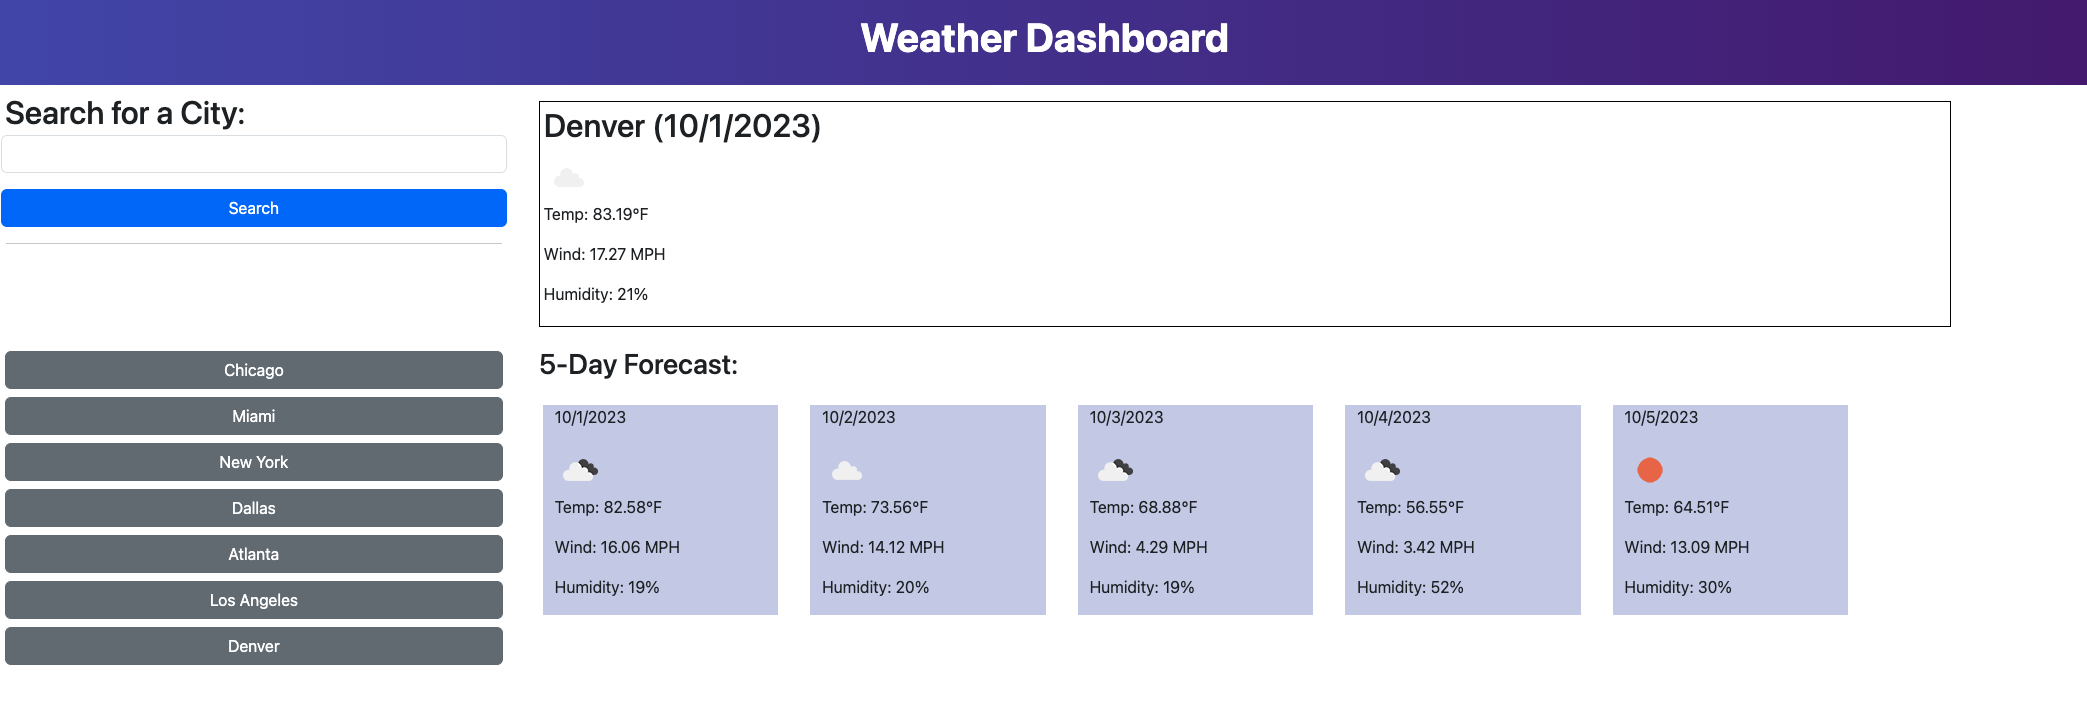
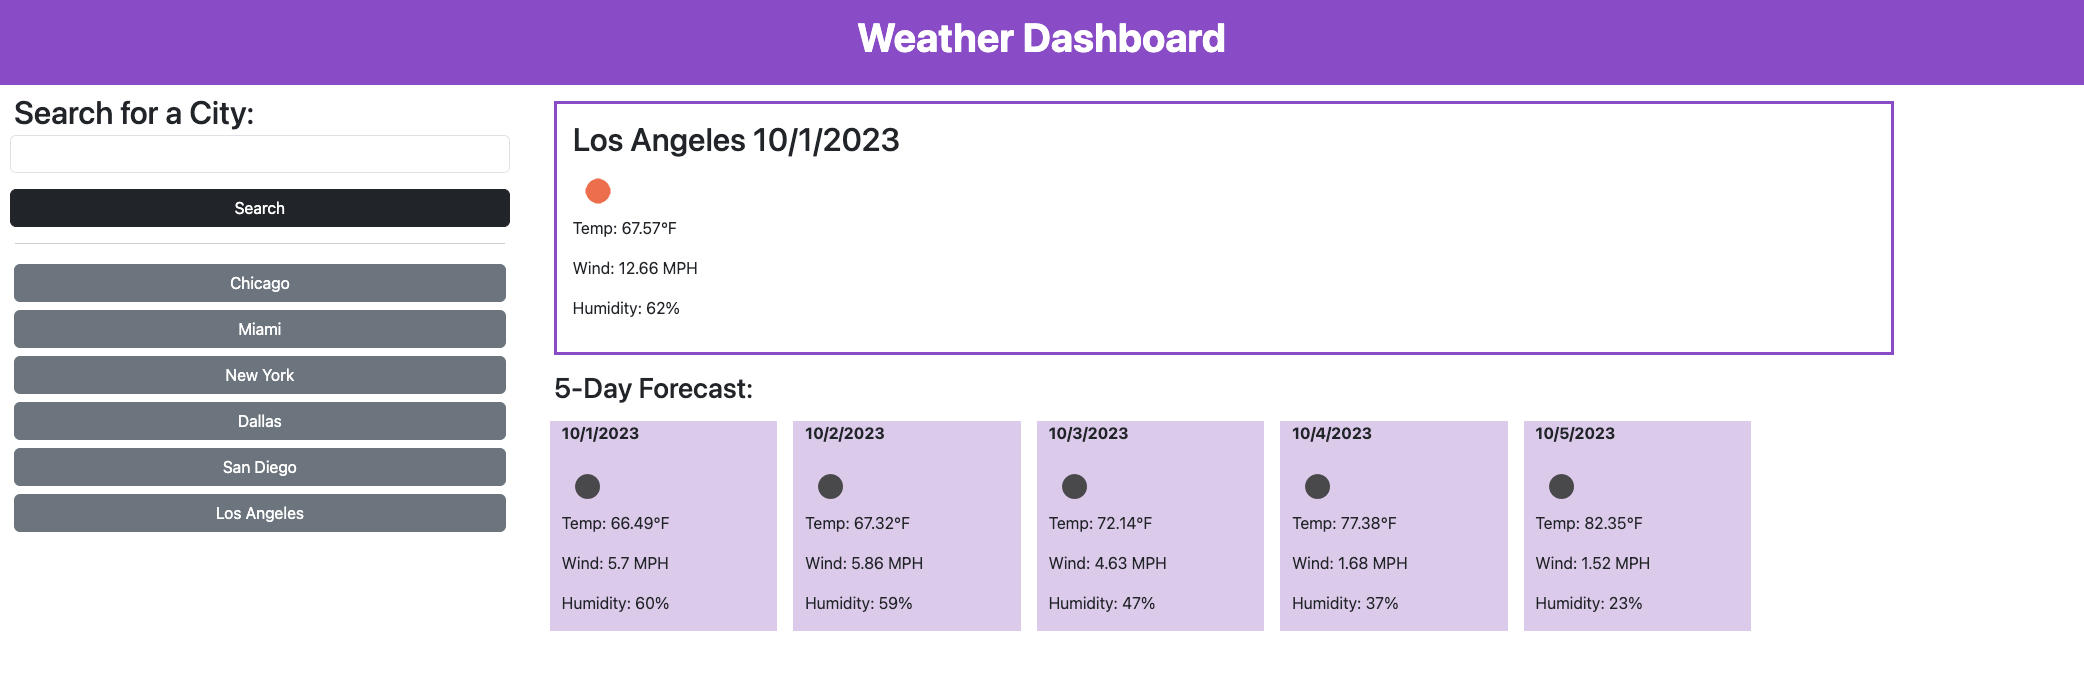
changed design

diff --git a/dashboard.html b/dashboard.html
@@ -15,35 +15,38 @@
         <h1 class="fw-bold">Weather Dashboard</h1>
     </header>
 
-    <section class="row">
-        <form class="col-3 m-1" id="search-form">
-            <h2 class="m-1">Search for a City:</h2>
-            <div class="mb-3">
-                <input type="text" class="form-control" id="city-input">
-            </div>
-            <div class="d-grid">
-                <button type="submit" class="btn btn-primary">Search</button>
-            </div>
-            <hr>
-
-        </form>
-        <section class="col-8 border border-black p-1 m-3">
-            <h2 id="city-info"></h2>
-            <img id="today-icon" src="" alt="Weather Icon">
-            <p id="today-temp">Temp:</p>
-            <p id="today-wind">Wind:</p>
-            <p id="today-humidity">Humidity:</p>
+    <section class="container-fluid">
+        <section class="row">
+            <section class="col-lg-3 col-sm-12 m-1">
+                <form id="search-form">
+                    <h2 class="m-1">Search for a City:</h2>
+                    <div class="mb-3">
+                        <input type="text" class="form-control" id="city-input">
+                    </div>
+                    <div class="d-grid">
+                        <button type="submit" class="btn btn-dark">Search</button>
+                    </div>
+                    <hr>
+                </form>
+                <section id="search-history"></section>
+            </section>
+            <section class="col-lg-8 col-sm-12">
+                <section class="p-3 m-3" id="current-day-container">
+                    <h2 id="city-info"></h2>
+                    <img id="today-icon" src="" alt="Weather Icon">
+                    <p id="today-temp">Temp:</p>
+                    <p id="today-wind">Wind:</p>
+                    <p id="today-humidity">Humidity:</p>
+                </section>
+                <section class="m-3">
+                    <h3>5-Day Forecast:</h3>
+                    <div class="row" id="forecast-boxes">
+                    </div>
+                </section>
+            </section>
         </section>
     </section>
 
-    <section class="row">
-        <section class="col-3 m-1" id="search-history"></section>
-        <section class="col-8 m-1">
-            <h3>5-Day Forecast:</h3>
-            <div class="row" id="forecast-boxes">
-            </div>
-        </section>
-    </section>
     <script src="./assets/js/weather.js"></script>
 </body>
 

diff --git a/assets/js/weather.js b/assets/js/weather.js
@@ -30,7 +30,7 @@ function searchCityWeather() {
                     var cityInfo = document.getElementById("city-info");
                     var normalDate = new Date(data.dt * 1000);// https://stackoverflow.com/questions/847185/convert-a-unix-timestamp-to-time-in-javascript
                     var date = formatedDate(normalDate);
-                    cityInfo.textContent = data.name + " (" + date + ")";
+                    cityInfo.textContent = data.name + " " + date;
 
                     addToSearchHistory(data.name);// save on history if city searched by user is found on API
 
@@ -104,8 +104,9 @@ function renderForecastBoxes(futureDay) {
 
     forecastBoxes.appendChild(forecastBox);
     forecastBox.classList.add("col-2");
-    forecastBox.classList.add("m-3");
+    forecastBox.classList.add("m-2");
     forecastBox.classList.add("forecast-box");
+    date.classList.add("fw-bold");
     forecastBox.appendChild(date);
     forecastBox.appendChild(iconImg);
     forecastBox.appendChild(temp);

diff --git a/assets/css/style.css b/assets/css/style.css
@@ -1,5 +1,5 @@
 header{
-    background-image: linear-gradient(to right, rgb(76, 76, 179) , rgb(78, 21, 122));
+    background-color: rgb(139, 76, 198);
 }
 
 hr{
@@ -8,5 +8,9 @@ hr{
 }
 
 .forecast-box {
-    background-color: rgb(202, 207, 233);
+    background-color: rgb(219, 202, 233);
+}
+
+#current-day-container {
+    border: solid rgb(139, 76, 198);
 }

diff --git a/index.html b/index.html
@@ -22,7 +22,7 @@
                 <input type="text" class="form-control" id="city-input">
             </div>
             <div class="d-grid">
-                <button type="submit" class="btn btn-primary">Search</button>
+                <button type="submit" class="btn btn-dark">Search</button>
             </div>
             <hr>
         </form>
